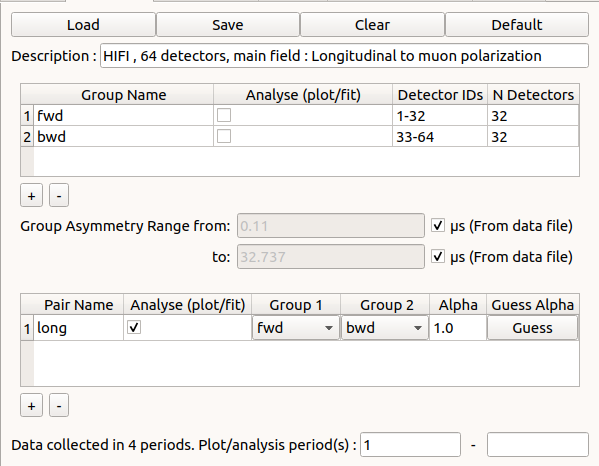
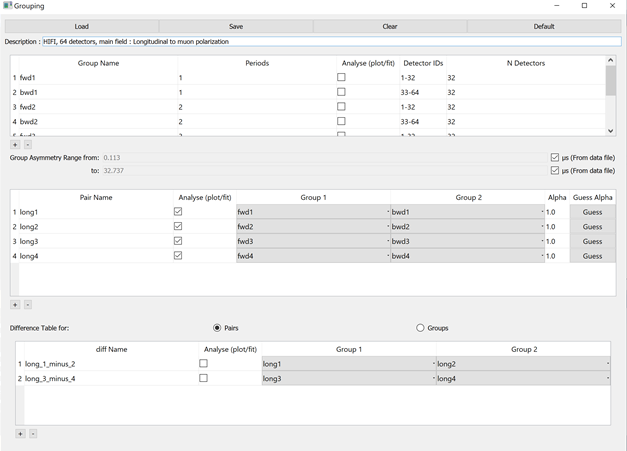
refs #30420 differences in muon GUI's doc update

Changed region(s): [[0.0, 0.0, 1.0, 1.0], [0.7513, 0.9313, 0.8414, 0.9623]]

diff --git a/scripts/Muon/GUI/Common/contexts/muon_group_pair_context.py b/scripts/Muon/GUI/Common/contexts/muon_group_pair_context.py
@@ -167,7 +167,6 @@ class MuonGroupPairContext(object):
 
     @property
     def selected_groups_and_pairs(self):
-        print("moo", self._selected_diffs)
         return self.selected_groups+self.selected_pairs+self.selected_diffs
 
     def clear(self):

diff --git a/docs/source/interfaces/muon_grouping_tab.rst b/docs/source/interfaces/muon_grouping_tab.rst
@@ -7,6 +7,11 @@ Grouping Tab
    :align: right
    :height: 400px
 
+The grouping tab is used for selecting the data that will be analysed.
+This information is presented in a series of tables.
+If a row in a table is highlighted in yellow it means that for some of the runs the data (periods) does not exist.
+If a row in a table is highlighted in red it means that the data (periods) does not exist for the loaded runs.
+
 **Load** Allows a grouping and pairing table xml file to be selected to load.
 
 **Save** Saves the current grouping and pairing tables to an xml file.
@@ -18,11 +23,26 @@ Grouping Tab
 Grouping Table
 ^^^^^^^^^^^^^^
 
-**Analyse (plot/fit)** Whether the selected group is included in the plot and fitting.
+The table contains the definitions of the groups.
+The headers are:
+
+**Group Name** The name of the group (this cannot be edited).
+
+**Periods** A list of the periods to add together. Can be seperated by commas or a dash for an inclusive range.
+
+**Analyse (plot/fit)** Whether the selected group is included in the transform (if available) plot and fitting.
+
+**Detector ID's** The detectors contained within the group. Can be seperated by commas or a dash for an inclusive range.
+
+**N Detectors** The total number of detectors in the group (this cannot be edited directly).
+
+**Context Menu Pair Selection** Right clicking over the grouping table, when two groups are selected, allows a pair to be created with a specified name.
+
+Underneath the table are a pair of buttons:
 
 **Plus and Minus** Add or remove groups.
 
-**Context Menu Pair Selection** Right clicking over the grouping table, when two groups are selected, allows a pair to be created with a specified name.
+Then there are:
 
 **Group Asymmetry Range** Controls the range to use when estimating the group asymmetry. The values are used as ``StartX`` and ``EndX`` in :ref:`EstimateMuonAsymmetryFromCounts <algm-EstimateMuonAsymmetryFromCounts>`. By default this range is the first good data and end time value from the file
 but may be overridden here if required.
@@ -31,17 +51,43 @@ but may be overridden here if required.
 Pairing Table
 ^^^^^^^^^^^^^
 
-**Analyse (plot/fit)** Whether the selected pair is included in the plot and fitting.
+The pairing table contains the muon pairs, see :ref:`MuonPairingAsymmetry <algm-MuonPairingAsymmetry>`.
+The headers are:
+
+**Pair Name** The name of the pair (This cannot be edited).
+
+**Analyse (plot/fit)** Whether the selected pair is included in the transform (when avialable), plot and fitting.
+
+**Group 1** The group to be used as forward in :ref:`MuonPairingAsymmetry <algm-MuonPairingAsymmetry>`.
+
+**Group 2** The group to be used as backward in :ref:`MuonPairingAsymmetry <algm-MuonPairingAsymmetry>`.
+
+**Alpha** The :math:`alpha` value using in :ref:`MuonPairingAsymmetry <algm-MuonPairingAsymmetry>`.
+
+**Guess Alpha** Estimates the alpha for the current pair and recalculates using :ref:`AlphaCalc  <algm-AlphaCalc>`.
+
+Underneath the table are two buttons:
 
 **Plus and Minus** Add or remove pairs.
 
-**Guess Alpha** Estimates the alpha for the current pair and recalculates.
 
-Multi-Period Data
-^^^^^^^^^^^^^^^^^^^
+Difference Table
+^^^^^^^^^^^^^^^^
 
-For multi period data, the summed and subratcted periods are specfied at the bottom of the tab. These periods will be used for all 
-the groups and pairs.
+The difference tables allow for the subtraction of the asymmetries of the groups or pairs.
+The two radio buttons are used to select if to show the difference table for the pairs or the groups.
+The headers are:
+
+**Diff Name** The name of the difference (This cannot be edited).
+
+**Analyse (plot/fit)** Whether the selected difference is included in the transform (when avialable), plot and fitting.
+
+**Group 1** The group/pair to be used as the left hand side of the difference.
+
+**Group 2** The group/pair to be used as bright hand side of the difference.
+
+**Plus and Minus** Add or remove differences.
+
 
 Used By
 ^^^^^^^
